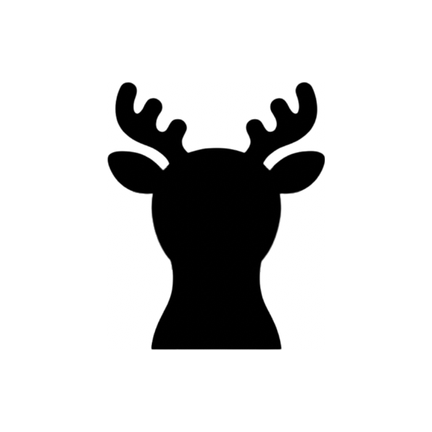
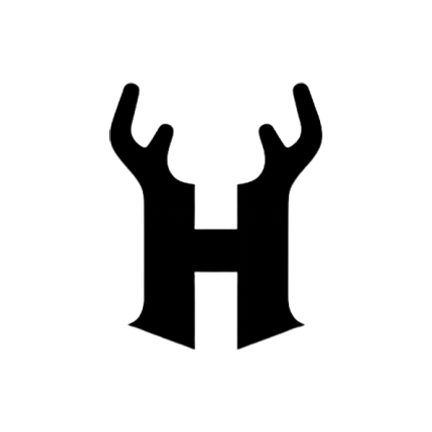
feat: the antlered H, everywhere the deer was (#843)
Two drops replace two: `Logos/Hevalo_Logo_Dark.png` is the mark in black
for light surfaces, `Hevalo_Logo_Light.png` the same mark in white for
dark ones. Both are cut out, so neither carries a card and the caller
supplies the field.

Which goes where follows from the apps rather than from taste. The web
app has a single immersive theme on #0b0d10, so everything it shows is
the light mark. Every icon a platform asks for — the app icon, the
favicon, the Android background layer — is that same field with the
light mark on it, so the home screen, the splash and the first painted
frame are one unbroken look.

The splash background moves off its pale blue card for the same reason.
That card was the deer's; a black mark on pale blue followed by the dark
app was two brands, and a white mark on pale blue is nothing at all.

The mark before it was a purple deer, and a purple deer reads on
anything. A one-colour mark does not, which is what the rest of this is
about:

- the tab icon and the social card carry their own field now. A tab
  strip is light in one browser and dark in the next, and whatever
  unfurls a link flattens a transparent PNG onto a background of its
  choosing — usually white, which is exactly where a white mark stops
  existing. The social card is a proper 1200x630 image rather than a
  512 square, so it is a summary_large_image now.
- the sticker sheet gets both, because the surface is somebody's
[…]

Changed region(s): [[0.2407, 0.1806, 0.7523, 0.8125]]

diff --git a/web/index.html b/web/index.html
@@ -3,7 +3,12 @@
   <head>
     <meta charset="UTF-8" />
     <meta name="viewport" content="width=device-width, initial-scale=1.0" />
-    <link rel="icon" href="/logo.png" type="image/png" />
+    <!--
+      The tab icon carries its own field, because a tab strip is light in one
+      browser and dark in the next. The mark is one colour now, so the cut-out
+      version disappears into one of them.
+    -->
+    <link rel="icon" href="/favicon.png" type="image/png" />
     <title>Hevalo</title>
     <meta
       name="description"
@@ -31,14 +36,21 @@
       property="og:description"
       content="Hevalo is a way to learn Kurdish — lessons, stories, poems, games and a community."
     />
-    <meta property="og:image" content="https://hevalo.app/logo.png" />
-    <meta name="twitter:card" content="summary" />
+    <!--
+      A card, not the bare mark. Whatever unfurls this flattens a transparent
+      PNG onto a background of its choosing — usually white, which is exactly
+      where a white mark stops existing.
+    -->
+    <meta property="og:image" content="https://hevalo.app/og.png" />
+    <meta property="og:image:width" content="1200" />
+    <meta property="og:image:height" content="630" />
+    <meta name="twitter:card" content="summary_large_image" />
     <meta name="twitter:title" content="Hevalo" />
     <meta
       name="twitter:description"
       content="Hevalo is a way to learn Kurdish — lessons, stories, poems, games and a community."
     />
-    <meta name="twitter:image" content="https://hevalo.app/logo.png" />
+    <meta name="twitter:image" content="https://hevalo.app/og.png" />
   </head>
   <body>
     <div id="root"></div>

diff --git a/web/src/images/stickers.ts b/web/src/images/stickers.ts
@@ -39,7 +39,15 @@ export const PICTURE_STICKERS: readonly PictureSticker[] = [
   { src: '/stickers/black_sun.webp', name: 'black-sun', labelKey: 'photo.sticker.blackSun' },
   { src: '/stickers/zilan.webp', name: 'Zilan' },
   { src: '/stickers/amed_spor.webp', name: 'Amed Spor' },
-  { src: '/stickers/logo.webp', name: 'Hevalo' },
+  /*
+   * Both, because the surface is somebody's photograph. The mark is one colour
+   * now, so neither version reads on every picture — the same reason the sheet
+   * has carried a white sun and a black sun all along.
+   */
+  // 'Hevalo' keeps its name: it is carried onto saved layers, so renaming it
+  // now would orphan every picture somebody has already put it on
+  { src: '/stickers/logo.webp', name: 'Hevalo', labelKey: 'photo.sticker.hevaloWhite' },
+  { src: '/stickers/logo_dark.webp', name: 'hevalo-dark', labelKey: 'photo.sticker.hevaloBlack' },
 ];
 
 export interface EmojiSticker {

diff --git a/web/src/styles/layout.css b/web/src/styles/layout.css
@@ -200,9 +200,10 @@ button.nav-link {
   transition: transform 0.5s cubic-bezier(0.2, 0.8, 0.3, 1), filter 0.3s ease;
 }
 .brand:hover .brand-mark {
-  /* it used to turn, because it used to be a sun; a deer lifts instead */
+  /* it used to turn, because it used to be a sun; the antlers lift instead */
   transform: translateY(-1px) scale(1.06);
-  filter: drop-shadow(0 1px 2px rgba(0, 0, 0, 0.5)) drop-shadow(0 0 7px rgba(123, 117, 206, 0.55));
+  /* the glow was the deer's purple; the mark is one colour now, so it is its own */
+  filter: drop-shadow(0 1px 2px rgba(0, 0, 0, 0.5)) drop-shadow(0 0 7px rgba(255, 255, 255, 0.45));
 }
 .brand span {
   transition: color 0.3s ease;

diff --git a/web/src/i18n/ckb.ts b/web/src/i18n/ckb.ts
@@ -602,6 +602,8 @@ export const ckb: Catalogue = {
   'photo.sticker.yellowSun': 'خۆری زەرد',
   'photo.sticker.whiteSun': 'خۆری سپی',
   'photo.sticker.blackSun': 'خۆری ڕەش',
+  'photo.sticker.hevaloWhite': 'لۆگۆی Hevalo، سپی',
+  'photo.sticker.hevaloBlack': 'لۆگۆی Hevalo، ڕەش',
   'photo.pickSticker': 'ستیکەرێک هەڵبژێرە',
   'photo.swapSticker': 'ستیکەرەکە بگۆڕە',
   'photo.closeStickers': 'هەڵبژێری ستیکەر دابخە',

diff --git a/web/src/i18n/ar.ts b/web/src/i18n/ar.ts
@@ -595,6 +595,8 @@ export const ar: Catalogue = {
   'photo.sticker.yellowSun': 'شمس صفراء',
   'photo.sticker.whiteSun': 'شمس بيضاء',
   'photo.sticker.blackSun': 'شمس سوداء',
+  'photo.sticker.hevaloWhite': 'شعار Hevalo، أبيض',
+  'photo.sticker.hevaloBlack': 'شعار Hevalo، أسود',
   'photo.pickSticker': 'اختر ملصقًا',
   'photo.swapSticker': 'استبدل الملصق',
   'photo.closeStickers': 'إغلاق منتقي الملصقات',

diff --git a/web/src/i18n/es.ts b/web/src/i18n/es.ts
@@ -590,6 +590,8 @@ export const es: Catalogue = {
   'photo.sticker.yellowSun': 'Sol amarillo',
   'photo.sticker.whiteSun': 'Sol blanco',
   'photo.sticker.blackSun': 'Sol negro',
+  'photo.sticker.hevaloWhite': 'Logotipo de Hevalo, blanco',
+  'photo.sticker.hevaloBlack': 'Logotipo de Hevalo, negro',
   'photo.pickSticker': 'Elige una pegatina',
   'photo.swapSticker': 'Cambiar la pegatina',
   'photo.closeStickers': 'Cerrar el selector de pegatinas',

diff --git a/web/src/i18n/tr.ts b/web/src/i18n/tr.ts
@@ -590,6 +590,8 @@ export const tr: Catalogue = {
   'photo.sticker.yellowSun': 'Sarı güneş',
   'photo.sticker.whiteSun': 'Beyaz güneş',
   'photo.sticker.blackSun': 'Siyah güneş',
+  'photo.sticker.hevaloWhite': 'Hevalo logosu, beyaz',
+  'photo.sticker.hevaloBlack': 'Hevalo logosu, siyah',
   'photo.pickSticker': 'Bir çıkartma seç',
   'photo.swapSticker': 'Çıkartmayı değiştir',
   'photo.closeStickers': 'Çıkartma seçiciyi kapat',

diff --git a/web/src/i18n/de.ts b/web/src/i18n/de.ts
@@ -590,6 +590,8 @@ export const de: Catalogue = {
   'photo.sticker.yellowSun': 'Gelbe Sonne',
   'photo.sticker.whiteSun': 'Weiße Sonne',
   'photo.sticker.blackSun': 'Schwarze Sonne',
+  'photo.sticker.hevaloWhite': 'Hevalo-Logo, weiß',
+  'photo.sticker.hevaloBlack': 'Hevalo-Logo, schwarz',
   'photo.pickSticker': 'Sticker auswählen',
   'photo.swapSticker': 'Sticker austauschen',
   'photo.closeStickers': 'Sticker-Auswahl schließen',

diff --git a/web/src/i18n/ku.ts b/web/src/i18n/ku.ts
@@ -596,6 +596,8 @@ export const ku: Catalogue = {
   'photo.sticker.yellowSun': 'Roja zer',
   'photo.sticker.whiteSun': 'Roja spî',
   'photo.sticker.blackSun': 'Roja reş',
+  'photo.sticker.hevaloWhite': 'Logoya Hevalo, spî',
+  'photo.sticker.hevaloBlack': 'Logoya Hevalo, reş',
   'photo.pickSticker': 'Stickerekê hilbijêre',
   'photo.swapSticker': 'Stickerê biguherîne',
   'photo.closeStickers': 'Hilbijartina stickeran bigire',

diff --git a/web/src/i18n/fr.ts b/web/src/i18n/fr.ts
@@ -590,6 +590,8 @@ export const fr: Catalogue = {
   'photo.sticker.yellowSun': 'Soleil jaune',
   'photo.sticker.whiteSun': 'Soleil blanc',
   'photo.sticker.blackSun': 'Soleil noir',
+  'photo.sticker.hevaloWhite': 'Logo Hevalo, blanc',
+  'photo.sticker.hevaloBlack': 'Logo Hevalo, noir',
   'photo.pickSticker': 'Choisis un sticker',
   'photo.swapSticker': 'Changer de sticker',
   'photo.closeStickers': 'Fermer le choix des stickers',

diff --git a/web/src/i18n/nl.ts b/web/src/i18n/nl.ts
@@ -590,6 +590,8 @@ export const nl: Catalogue = {
   'photo.sticker.yellowSun': 'Gele zon',
   'photo.sticker.whiteSun': 'Witte zon',
   'photo.sticker.blackSun': 'Zwarte zon',
+  'photo.sticker.hevaloWhite': 'Hevalo-logo, wit',
+  'photo.sticker.hevaloBlack': 'Hevalo-logo, zwart',
   'photo.pickSticker': 'Kies een sticker',
   'photo.swapSticker': 'Sticker vervangen',
   'photo.closeStickers': 'Stickerkiezer sluiten',

diff --git a/web/src/i18n/en.ts b/web/src/i18n/en.ts
@@ -665,6 +665,8 @@ export const en = {
   'photo.sticker.yellowSun': 'Yellow sun',
   'photo.sticker.whiteSun': 'White sun',
   'photo.sticker.blackSun': 'Black sun',
+  'photo.sticker.hevaloWhite': 'Hevalo logo, white',
+  'photo.sticker.hevaloBlack': 'Hevalo logo, black',
   'photo.pickSticker': 'Pick a sticker',
   'photo.swapSticker': 'Swap the sticker',
   'photo.closeStickers': 'Close the sticker picker',
